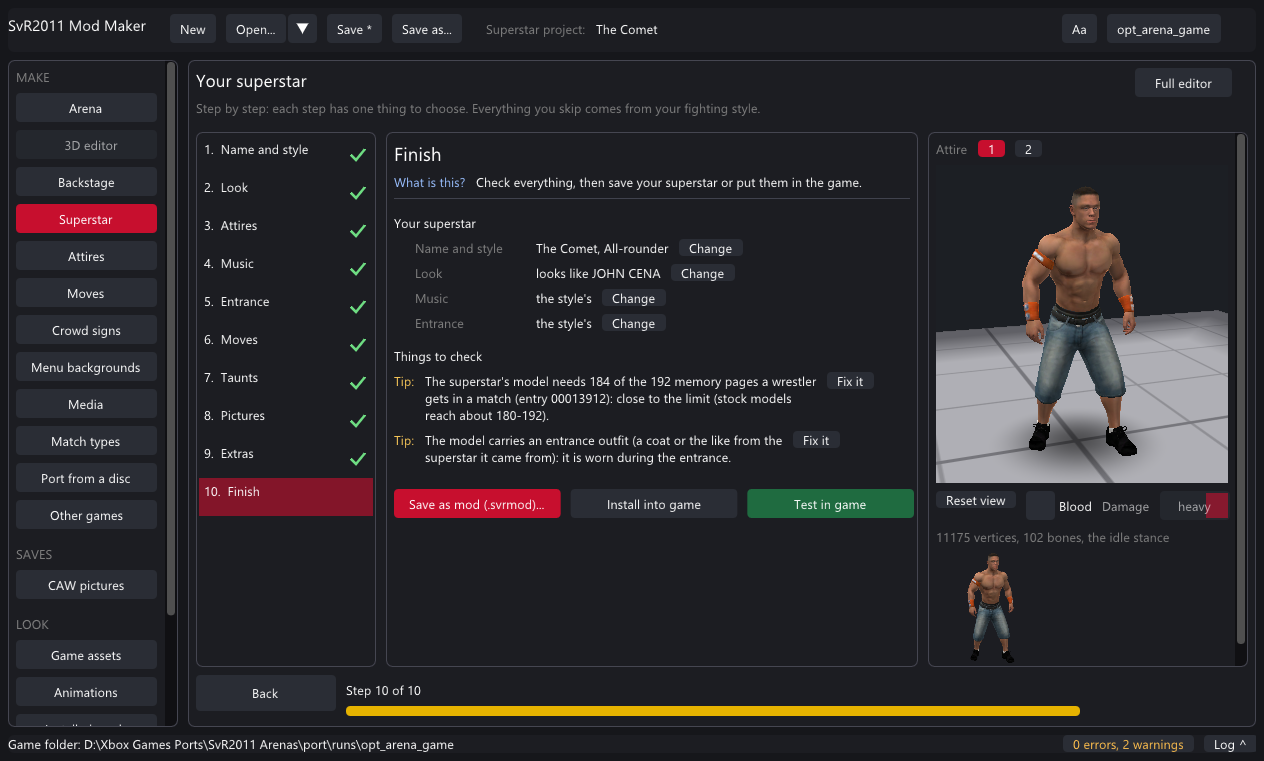
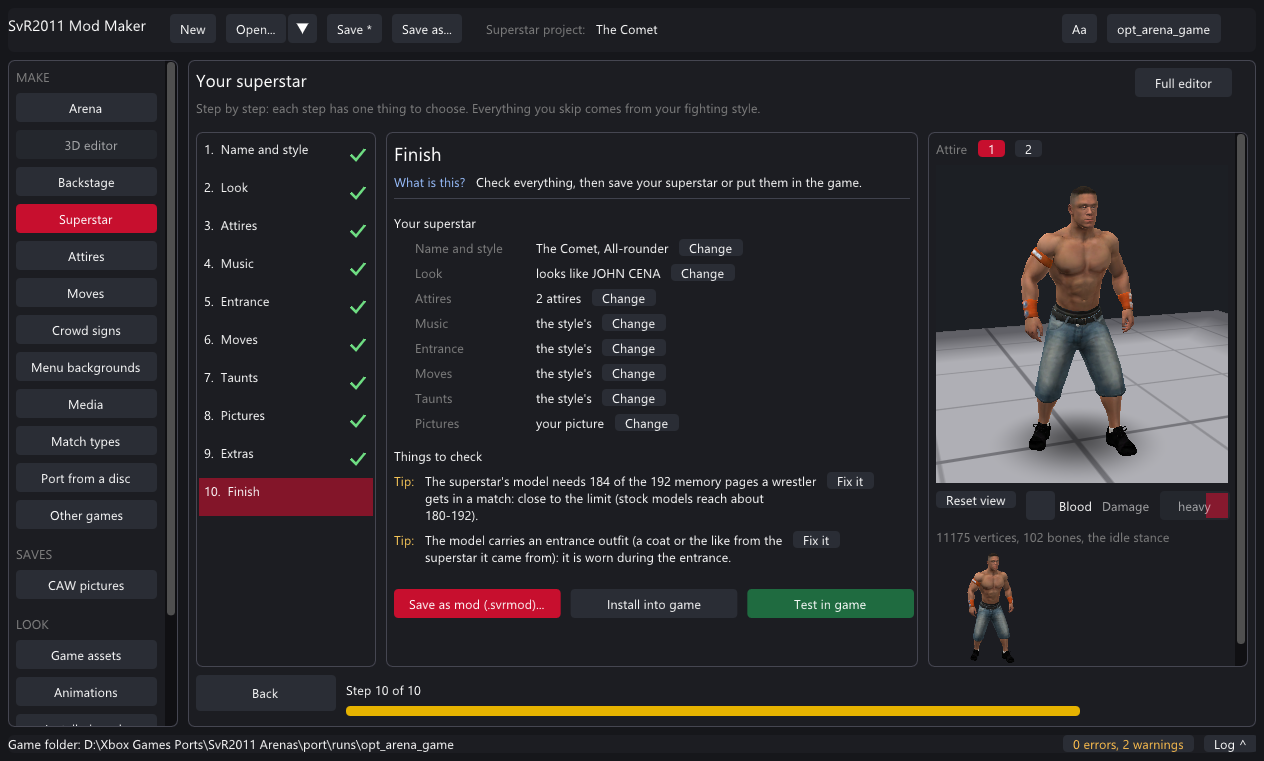
Mod Maker Simple mode polish: Finish's summary covers every step (attires, moves and taunts of your own, the picture and pose); problems without file-level details ("(entry ...)"); the placeholder step gone. Guide: the Finish picture again

diff --git a/port/modmaker/simple_star.cpp b/port/modmaker/simple_star.cpp
@@ -421,10 +421,14 @@ void StepExtras() {
   ImGui::TextDisabled("More (abilities, hometown, the announcer's own name clips) in the full editor.");
 }
 
-void StepLater(const char* what) {
-  FromStyle(what);
-  ImGui::Spacing();
-  ImGui::TextDisabled("Coming next: picking these here. The full editor can change them now.");
+// A problem's text without the file-level details a first-timer doesn't need ("(entry 00013902)").
+std::string Plain(std::string t) {
+  for (size_t a; (a = t.find(" (entry ")) != std::string::npos;) {
+    const size_t b = t.find(')', a);
+    if (b == std::string::npos) break;
+    t.erase(a, b - a + 1);
+  }
+  return t;
 }
 
 void StepFinish() {
@@ -443,8 +447,21 @@ void StepFinish() {
   const int now = GameStarOf(g_star.model);
   const StarInfo* s = now ? StarById(now) : nullptr;
   row(kStepLook, s ? "looks like " + s->name : g_star.model.empty() ? std::string("(none yet)") : FileName(g_star.model));
+  {
+    int extra = 0;
+    for (int a = 1; a < 4; ++a) extra += !g_star.attires[a].empty();
+    const int own = g_star.model.empty() ? 0 : int(ModelAttires(g_star.model).size());
+    row(kStepAttires, std::to_string(std::max(own, 1 + extra)) + " attire" + (std::max(own, 1 + extra) == 1 ? "" : "s"));
+  }
   row(kStepMusic, g_star.song.empty() ? std::string("the style's") : FileName(g_star.song));
   row(kStepEntrance, g_star.entrance < 0 ? std::string("the style's") : "entrance " + std::to_string(g_star.entrance));
+  {
+    int moves = 0, taunts = 0;
+    for (const auto& [slot, id] : g_star.moveset) (slot * 2 >= 0x12 && slot * 2 <= 0x18 ? taunts : moves) += 1;
+    row(kStepMoves, moves ? std::to_string(moves) + " of your own, the rest the style's" : std::string("the style's"));
+    row(kStepTaunts, taunts ? std::to_string(taunts) + " of your own" : std::string("the style's"));
+  }
+  row(kStepPictures, g_star.picture.Empty() ? std::string("none yet (a silhouette)") : std::string("your picture") + (g_star.pose >= 0 ? ", your pose" : ""));
   ImGui::Unindent();
   ImGui::Spacing();
   std::vector<Problem> problems;
@@ -459,7 +476,7 @@ void StepFinish() {
       ImGui::TextColored(p.error ? ImVec4(1, 0.45f, 0.4f, 1) : ImVec4(1, 0.8f, 0.35f, 1), p.error ? "Must fix:" : "Tip:");
       ImGui::SameLine();
       ImGui::PushTextWrapPos(ImGui::GetContentRegionAvail().x - 90 * g_scale + ImGui::GetCursorPosX());
-      ImGui::TextUnformatted(p.text.c_str());
+      ImGui::TextUnformatted(Plain(p.text).c_str());
       ImGui::PopTextWrapPos();
       if (p.step >= 0 && p.step != kStepFinish) {
         ImGui::SameLine();
